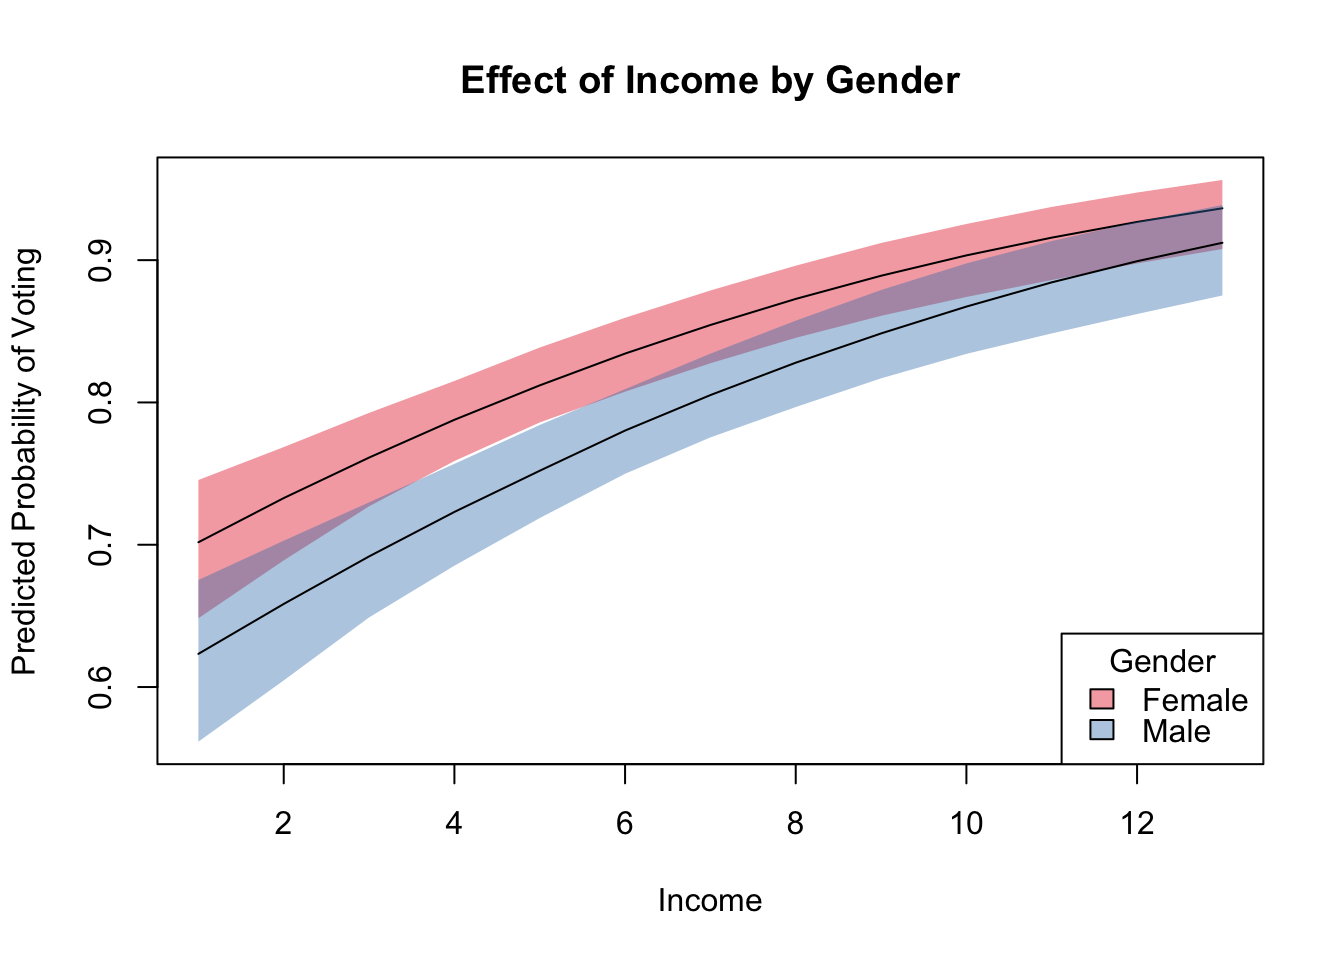
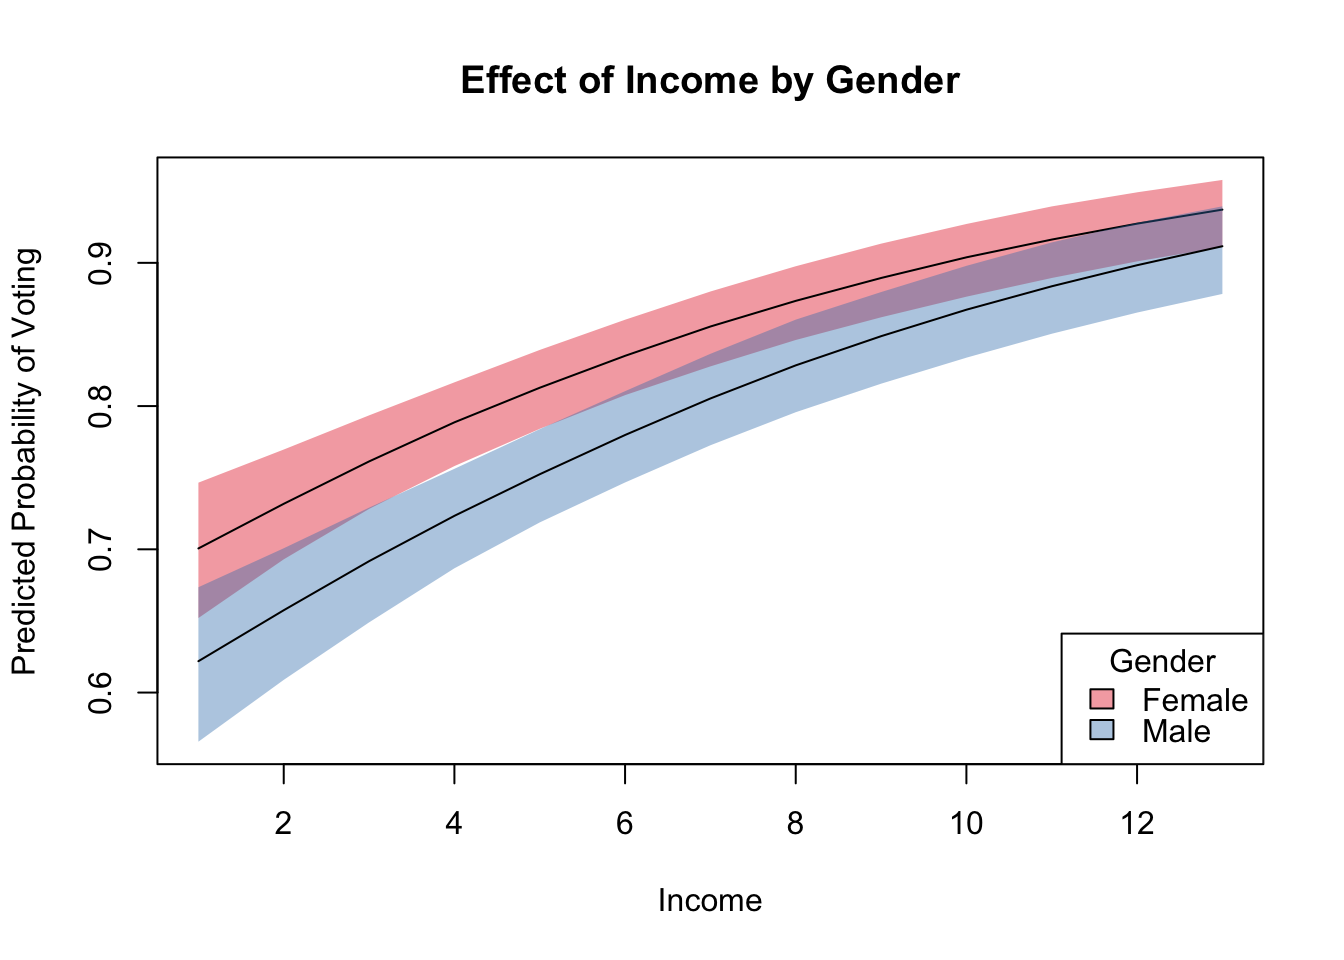
fixing issue #20 again

diff --git a/docs/articles/binary_models.html b/docs/articles/binary_models.html
@@ -152,7 +152,7 @@ sim &lt;-<span class="st"> </span><span class="kw"><a href="../reference/regsim.
 ## in_uni       0          
 ## 
 ##         2.5%       50%     97.5%
-## p1 0.7918869 0.8200719 0.8445091
+## p1 0.7930571 0.8193284 0.8449907
 ## --------------------------------
 ## 
 ##              Profile 2  
@@ -169,13 +169,13 @@ sim &lt;-<span class="st"> </span><span class="kw"><a href="../reference/regsim.
 ## in_uni       0          
 ## 
 ##         2.5%       50%     97.5%
-## p2 0.7288598 0.7622305 0.7937207
+## p2 0.7286079 0.7613495 0.7921563
 ## --------------------------------
 ## 
 ## First Differences:
 ## 
 ##           2.5%         50%       97.5%
-## fd -0.08391426 -0.05736798 -0.03032829</code></pre>
+## fd -0.08578415 -0.05678465 -0.03106922</code></pre>
 <div class="sourceCode"><pre class="sourceCode r"><code class="sourceCode r">x &lt;-<span class="st"> </span><span class="kw">list</span>(
   <span class="dt">Gender =</span> <span class="kw">levels</span>(bes<span class="op">$</span>Gender),
   <span class="dt">Income =</span> <span class="dv">1</span><span class="op">:</span><span class="dv">13</span>
